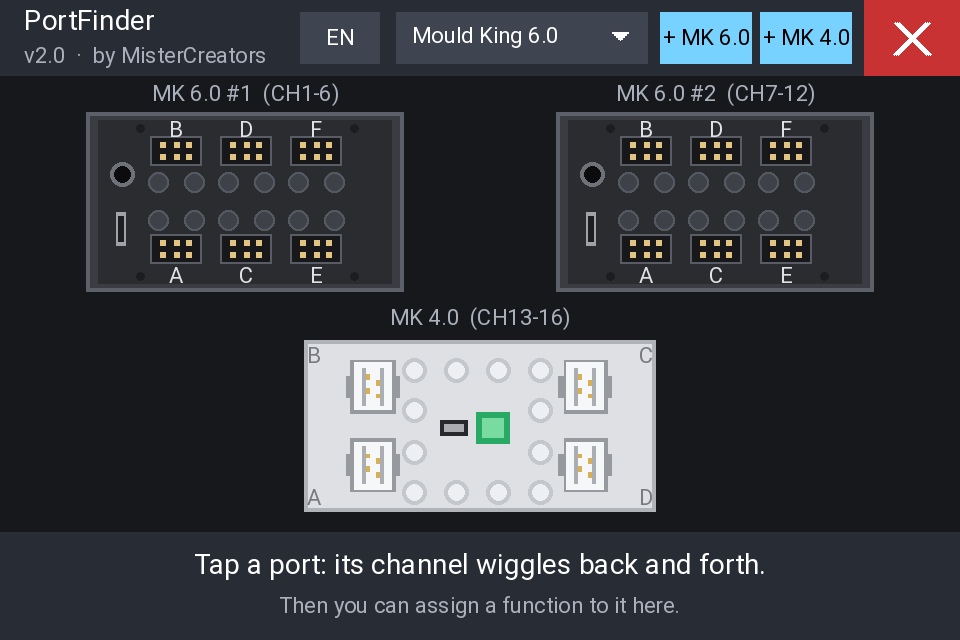
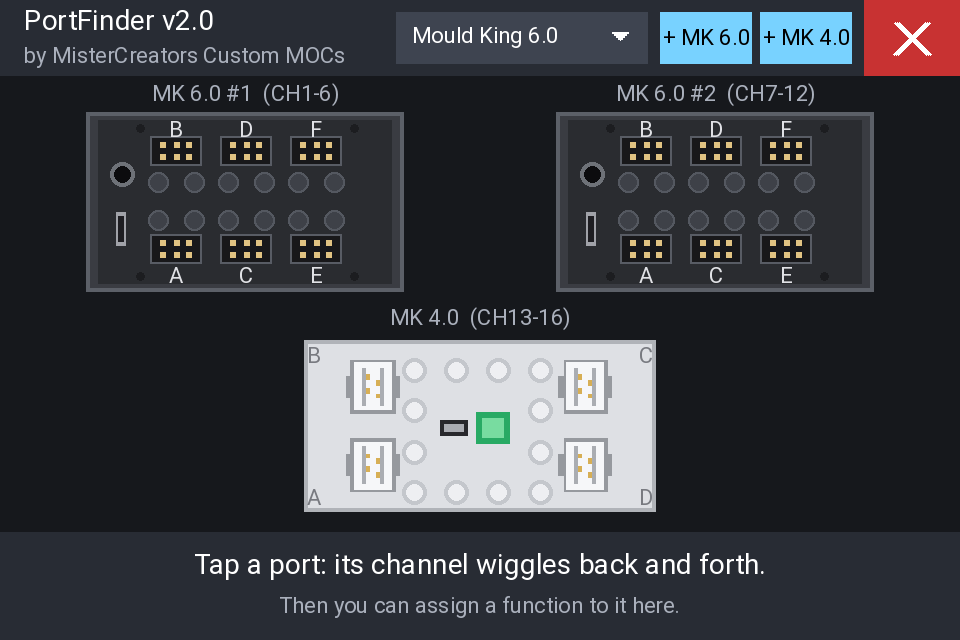
Update V2.0
tiny Bug fixes

Changed region(s): [[0.0312, 0.0, 0.4062, 0.125]]

diff --git a/README.md b/README.md
@@ -46,7 +46,7 @@ CH1–6, the second on CH7–12 and the MK 4.0 on CH13–16.
 - **Visual mixer builder:** assign sticks, pots, switches, logical switches, other channels,
   MAX or global variables, with weight, invert and channel name.
 - **Auto detect:** tap *Detect*, move a stick, pot or switch, and it is selected.
-- **English and German:** switch with one tap.
+- **English and German:** switch with one tap in the box list.
 - **Clean exit:** temporary test mixes are always removed, even after a crash or power loss.
 
 ## Requirements
@@ -92,7 +92,8 @@ the channel moves even when an ESC or a drive motor is connected. Tap **Understo
 Tap the box button in the title bar (it shows the current box) and pick your box. Next to it
 you find the switches for extra boxes: **Slave Box** for the RC Box Mini, **+ MK 6.0** and
 **+ MK 4.0** for the Mould King 6.0, and a **– 1x +** counter for the Mould King 4.0.
-Everything is saved for the current model.
+Everything is saved for the current model. The button at the bottom of the box list switches
+the language between English and German.
 
 ### 3. Find a port
 
@@ -108,7 +109,7 @@ Everything is saved for the current model.
 - The bar at the bottom shows the box, the port, its channel and its current assignment.
 - RC Box Mini shows the channel number at each port. Mould King boxes show the port letter
   printed on the box; the channels are shown above each box.
-- **EN / DE** switches the language. The red **X** closes the tool on every screen.
+- The red **X** closes the tool on every screen.
 
 ### 4. Assign a function
 
